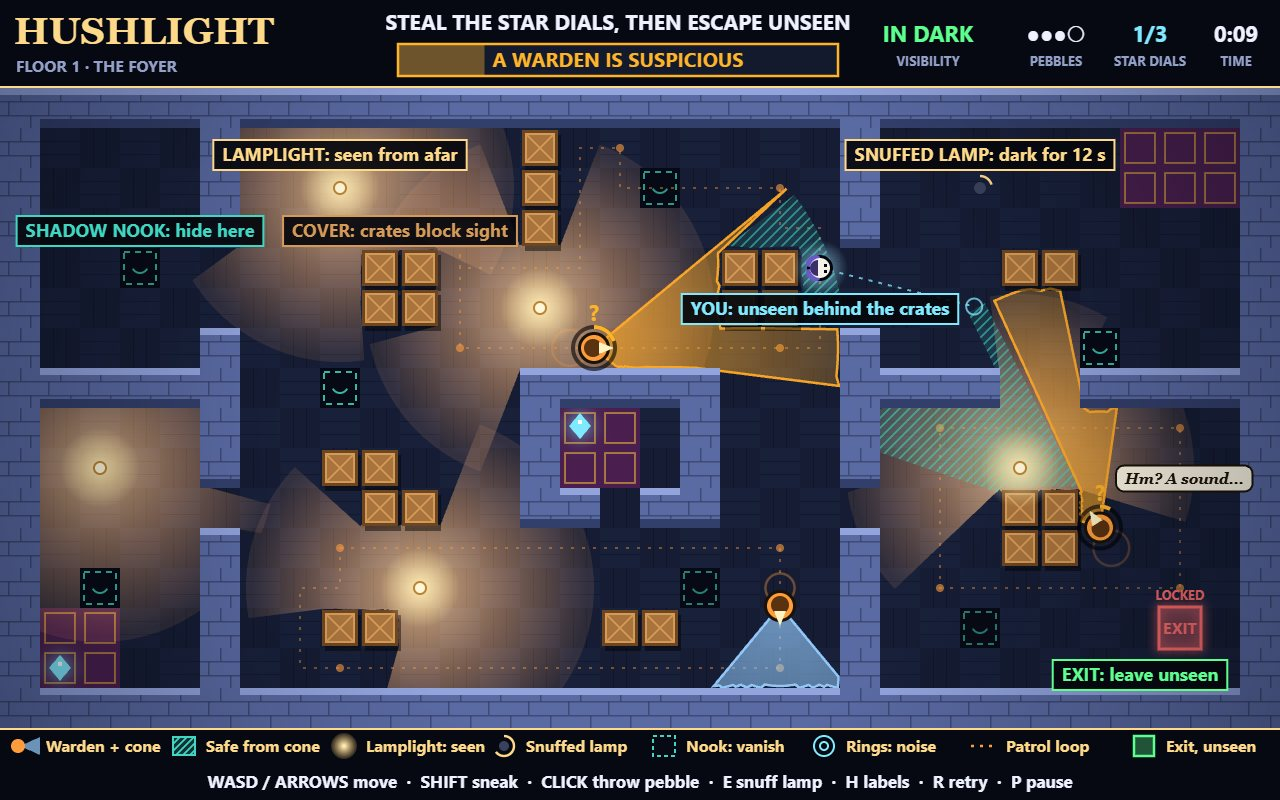
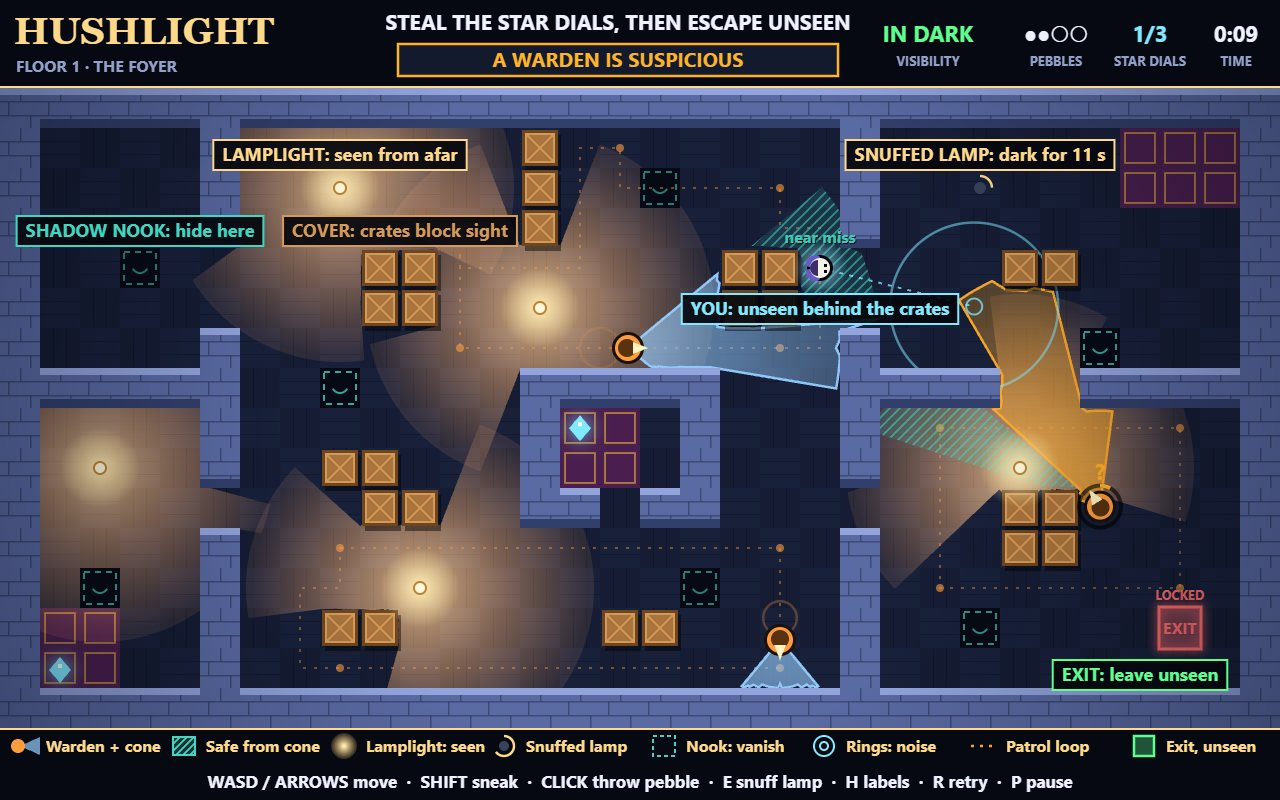
Cover shows a pebble's noise ring and a near miss; spoken descriptions of detection, patrols, sound and light

diff --git a/game/index.html b/game/index.html
@@ -8,7 +8,10 @@
 </head>
 <body>
 <canvas id="game" width="1280" height="800" aria-label="Hushlight: sneak past wardens and their vision cones, hide behind crates and in shadow nooks, steal the star dials and reach the exit unseen"></canvas>
-<p id="how-to-play">WASD or arrows to move, hold Shift to sneak silently, click to throw a pebble that lures wardens, R to retry, P to pause.</p>
+<p id="how-to-play" class="read-aloud">WASD or arrows to move, hold Shift to sneak silently, click to throw a pebble that lures wardens, E to snuff a lamp, R to retry, P to pause.</p>
+<p id="about-detection" class="read-aloud">Detection you can recover from: a warden's awareness fills while Moth is in its cone and drains when sight is broken. Glimpsed, then suspicious (it walks over to look), then spotted (it chases, shouts for help, searches, gives up and returns to its loop).</p>
+<p id="about-patrols" class="read-aloud">Each warden walks a fixed loop drawn as a dotted line, so patrols can be learned and patient routes pay off. Near misses are counted and every floor ends with a rank: GHOST, SHADOW or SURVIVOR. Three floors.</p>
+<p id="about-sound-and-light" class="read-aloud">Warden footsteps are synthesised, panned and faded by where the warden is, and leave rings on the floor. Running is heard, sneaking is silent. Lamps cast shadows behind walls and crates; dark floor is safe; teal hatching marks cover.</p>
 <script type="module" src="./src/main.js"></script>
 </body>
 </html>

diff --git a/game/src/shots.js b/game/src/shots.js
@@ -24,7 +24,9 @@ const SCENES = {
       ['place', 16, 6],
       ['wait', 0.35],
       ['place', 20, 4],
-      ['wait', 0.3, ['ShiftLeft']],
+      ['wait', 0.1, ['ShiftLeft']],
+      ['pebble', 24, 5],
+      ['wait', 0.75, ['ShiftLeft']],
       ['mouse', 24, 5],
     ],
   },

diff --git a/game/style.css b/game/style.css
@@ -20,8 +20,8 @@ body {
   image-rendering: auto;
 }
 
-/* Read by screen readers, never shown. */
-#how-to-play {
+/* Read by screen readers, never shown: how to play and what the game does. */
+.read-aloud {
   position: absolute;
   width: 1px;
   height: 1px;
